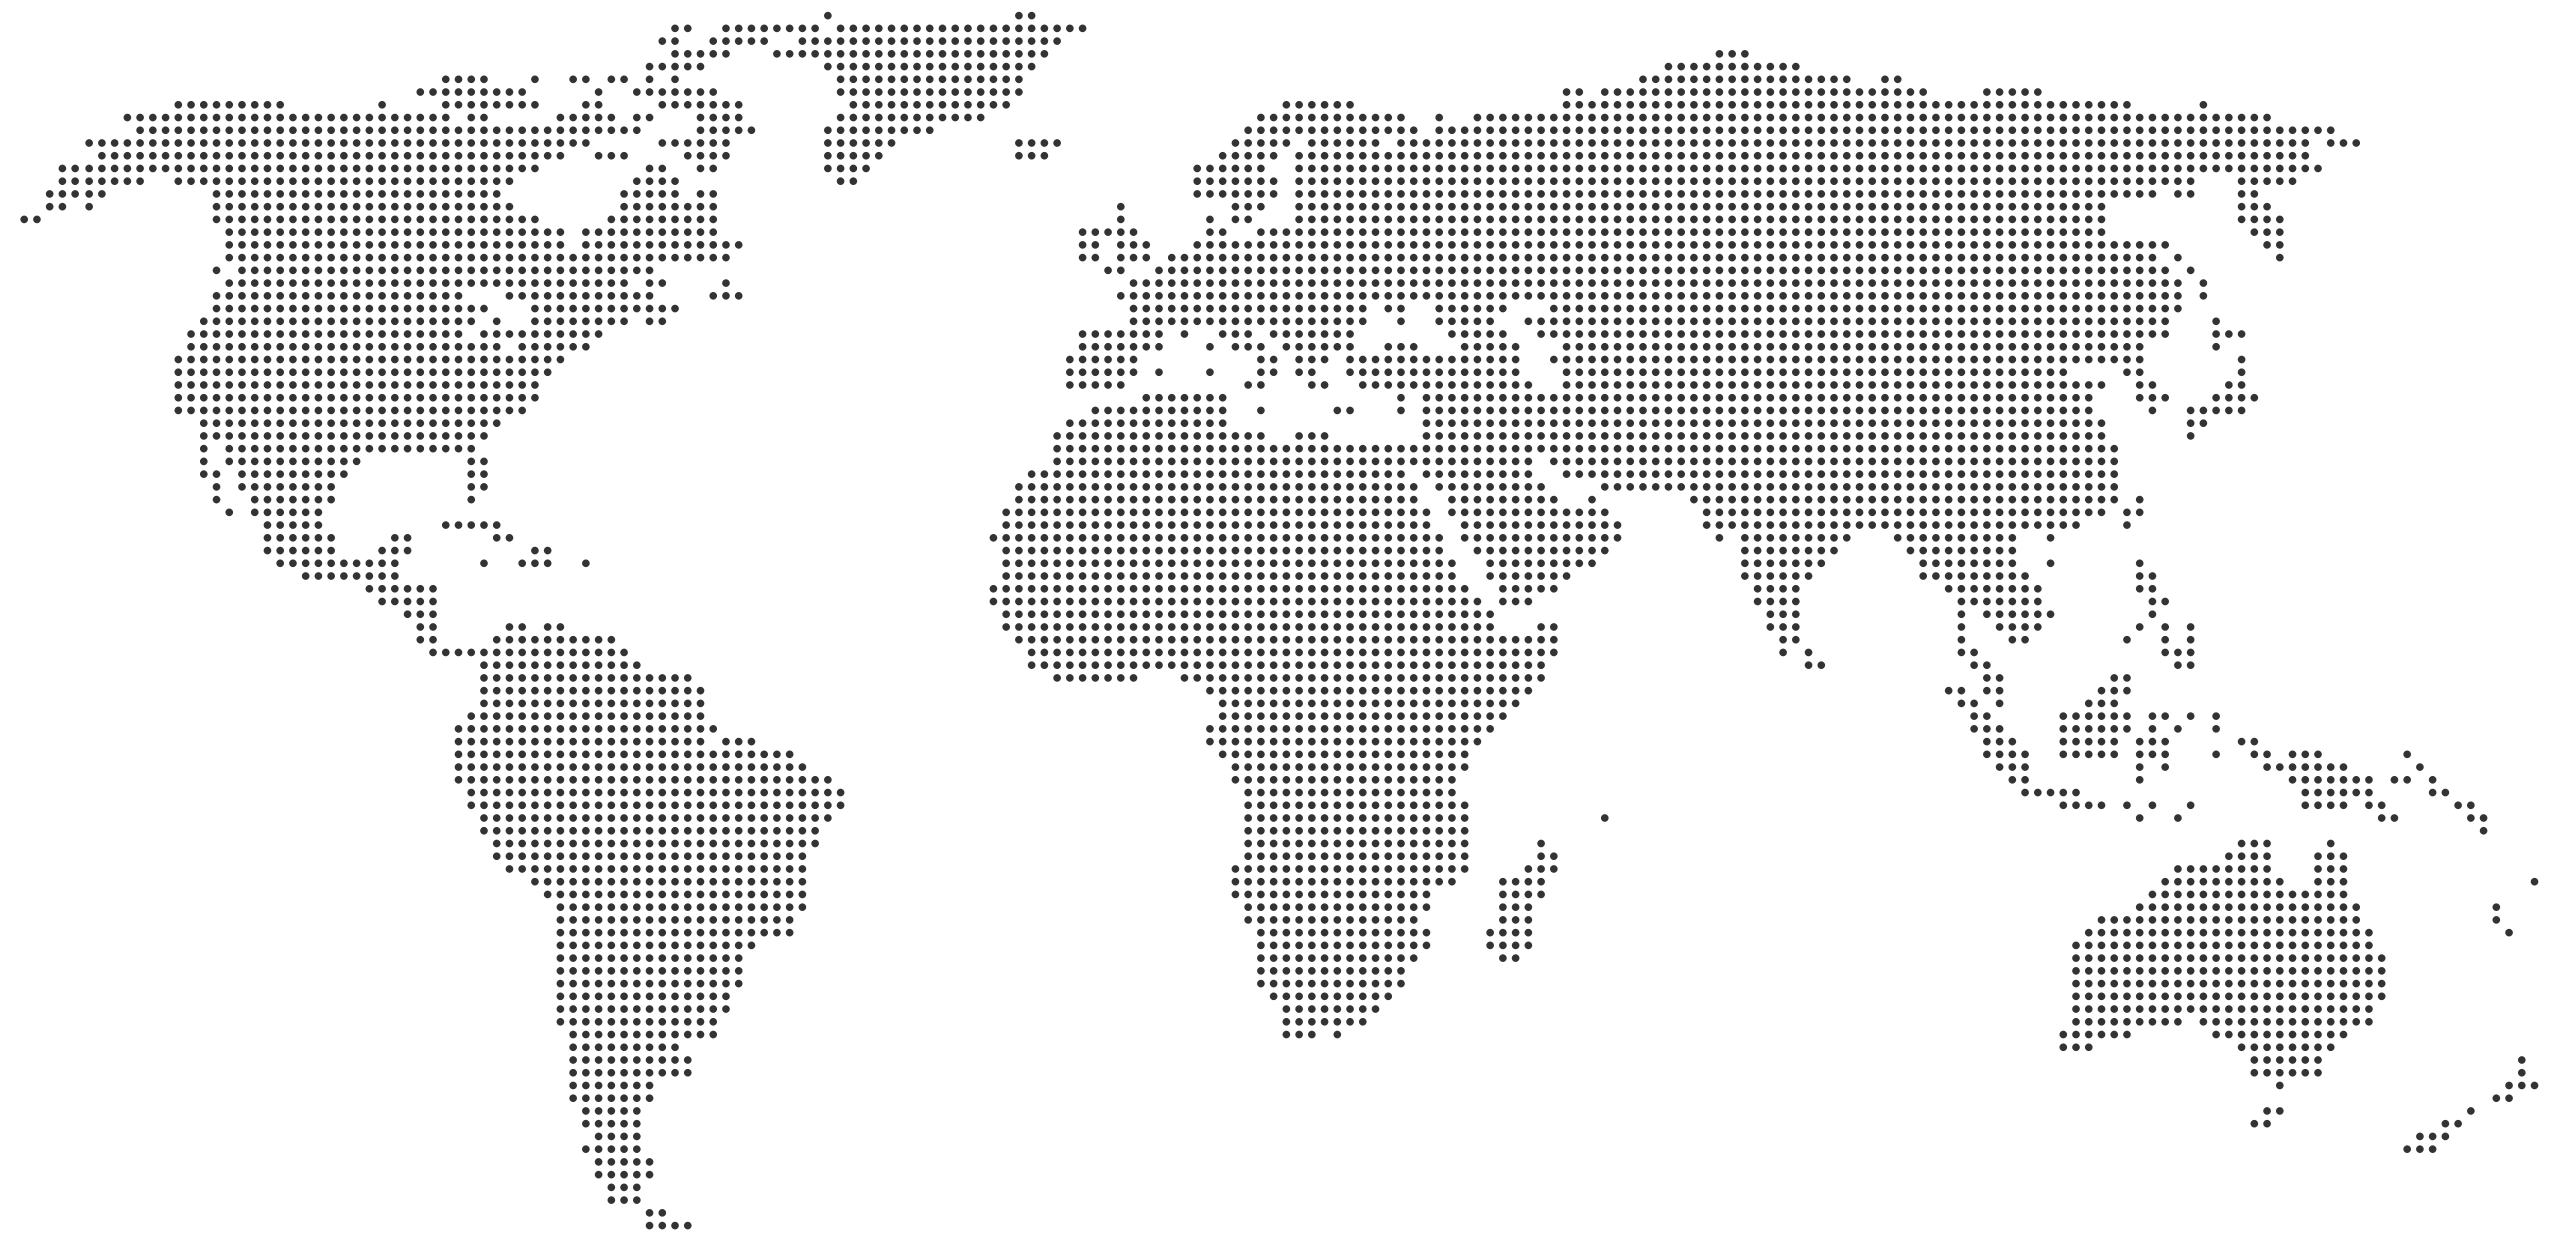
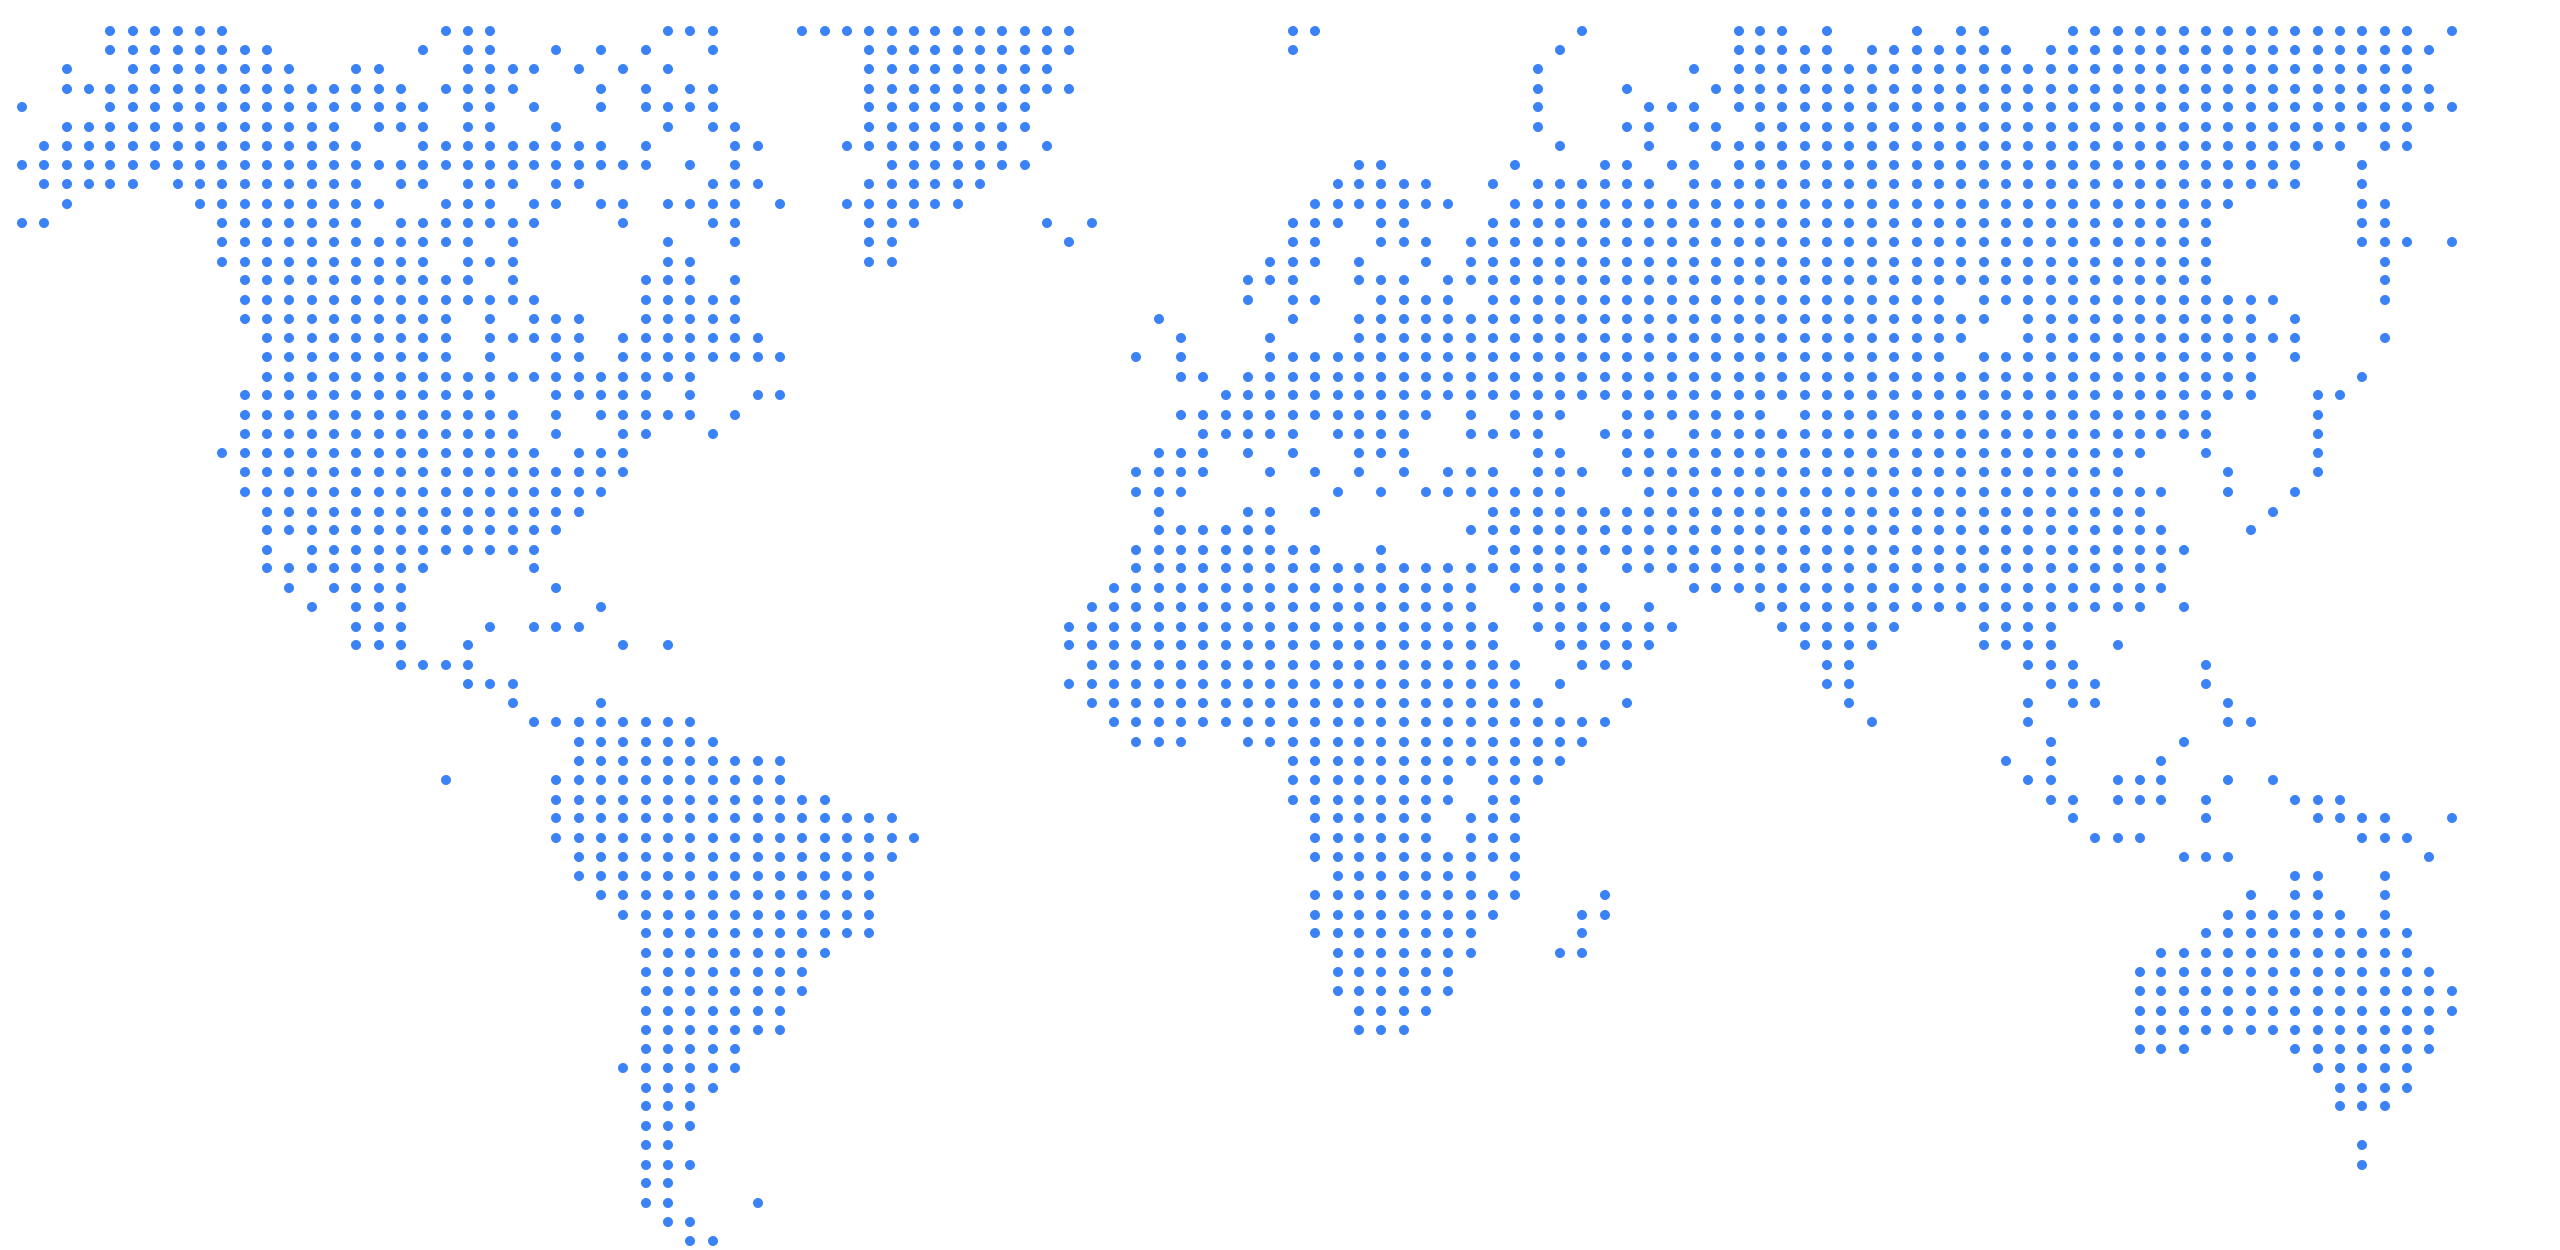
Refine global network map presentation

diff --git a/src/components/GlobalNetworkMap.tsx b/src/components/GlobalNetworkMap.tsx
@@ -39,7 +39,7 @@ export function GlobalNetworkMap({ preview = false }: { preview?: boolean }) {
   const [hoveredChapter, setHoveredChapter] = useState<Chapter | null>(null);
   const [selectedChapter, setSelectedChapter] = useState<Chapter | null>(null);
 
-  const displayedChapters = preview ? chapters.slice(0, 10) : chapters;
+  const displayedChapters = preview ? chapters.slice(0, 14) : chapters;
 
   return (
     <div className="relative">
@@ -56,7 +56,7 @@ export function GlobalNetworkMap({ preview = false }: { preview?: boolean }) {
           <img
             src={worldMap}
             alt="World map"
-            className="w-full max-w-[1200px] h-auto object-contain opacity-12 select-none pointer-events-none"
+            className="w-full max-w-[1200px] h-auto object-contain opacity-28 select-none pointer-events-none"
           />
         </div>
 
@@ -117,7 +117,7 @@ export function GlobalNetworkMap({ preview = false }: { preview?: boolean }) {
             repeat: Infinity,
             ease: "easeInOut"
           }}
-          className="absolute top-1/4 left-1/4 w-96 h-96 bg-gradient-to-br from-[#65D6C8]/20 to-[#7A6FF0]/20 rounded-full blur-3xl"
+          className="absolute top-1/4 left-1/4 w-80 h-80 bg-gradient-to-br from-[#65D6C8]/10 to-[#7A6FF0]/10 rounded-full blur-3xl"
         />
         <motion.div
           animate={{
@@ -130,7 +130,7 @@ export function GlobalNetworkMap({ preview = false }: { preview?: boolean }) {
             ease: "easeInOut",
             delay: 2
           }}
-          className="absolute top-1/3 right-1/4 w-96 h-96 bg-gradient-to-br from-[#7A6FF0]/20 to-[#A8F0E4]/20 rounded-full blur-3xl"
+          className="absolute top-1/3 right-1/4 w-80 h-80 bg-gradient-to-br from-[#7A6FF0]/10 to-[#A8F0E4]/10 rounded-full blur-3xl"
         />
 
         {/* Chapter nodes */}
@@ -151,21 +151,21 @@ export function GlobalNetworkMap({ preview = false }: { preview?: boolean }) {
               {/* Pulsing glow */}
               <motion.div
                 animate={{
-                  scale: [1, 1.8, 1],
-                  opacity: [0.4, 0.7, 0.4]
+                  scale: [1, 1.45, 1],
+                  opacity: [0.22, 0.4, 0.22]
                 }}
                 transition={{
                   duration: 3,
                   repeat: Infinity,
                   delay: index * 0.2
                 }}
-                className="absolute inset-0 -m-3 bg-[#65D6C8] rounded-full blur-md"
+                className="absolute inset-0 -m-1.5 bg-[#65D6C8]/85 rounded-full blur-[6px]"
               />
               
               {/* Node dot */}
               <motion.div
                 whileHover={{ scale: 1.5 }}
-                className="relative w-3 h-3 rounded-full bg-gradient-to-br from-[#65D6C8] to-[#7A6FF0] shadow-[0_0_10px_rgba(101,214,200,0.6)]"
+                className="relative w-3.5 h-3.5 rounded-full bg-gradient-to-br from-[#65D6C8] to-[#7A6FF0] shadow-[0_0_6px_rgba(101,214,200,0.3)]"
               />
 
               {/* Hover tooltip */}
